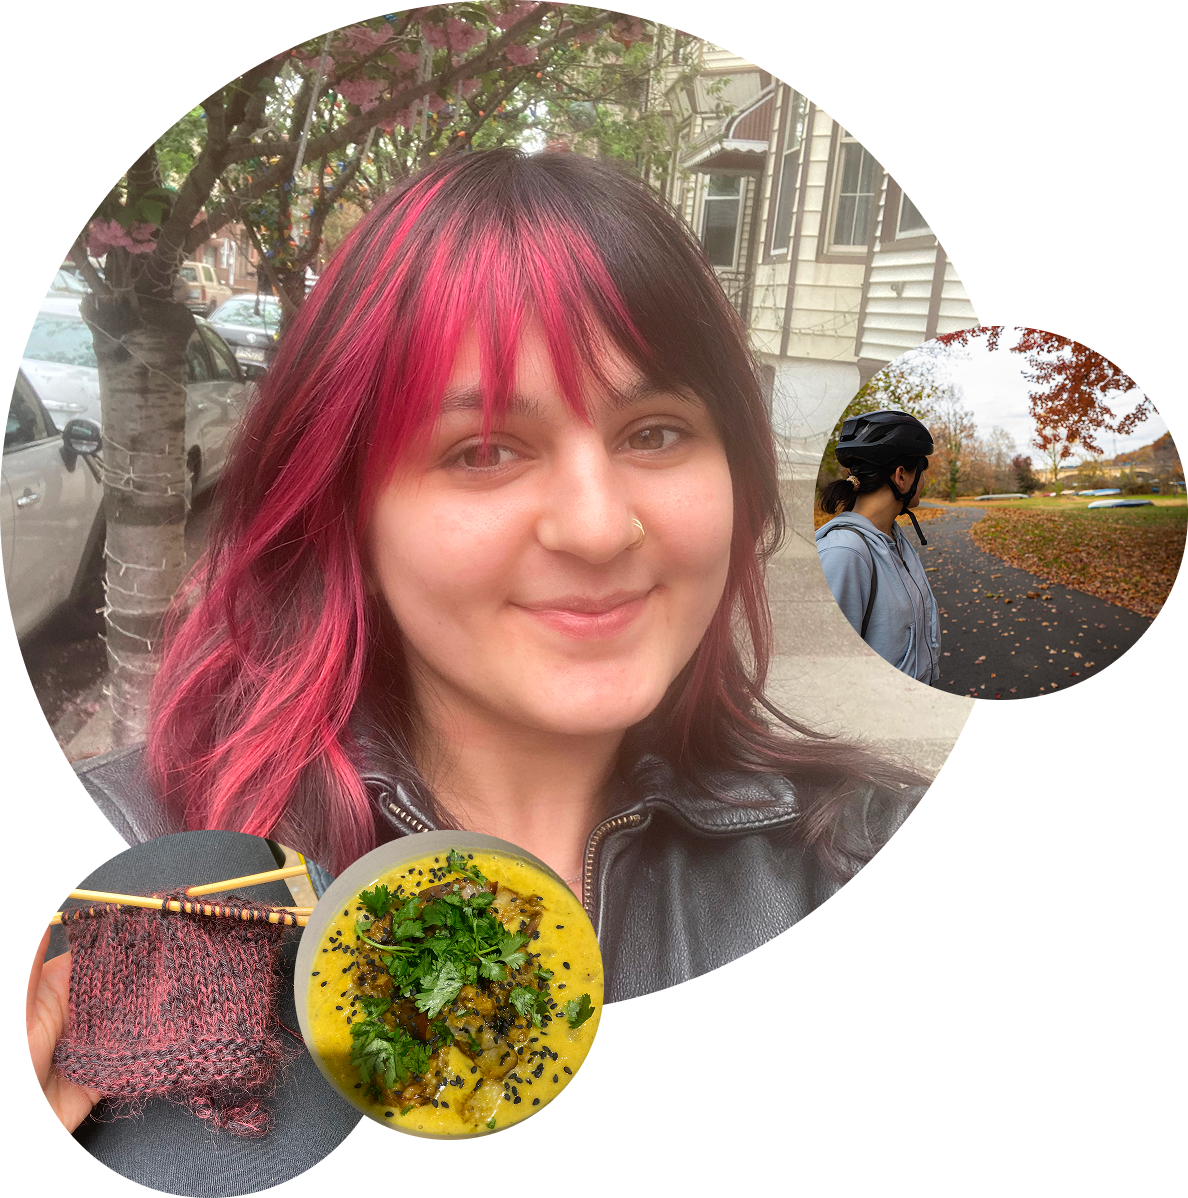
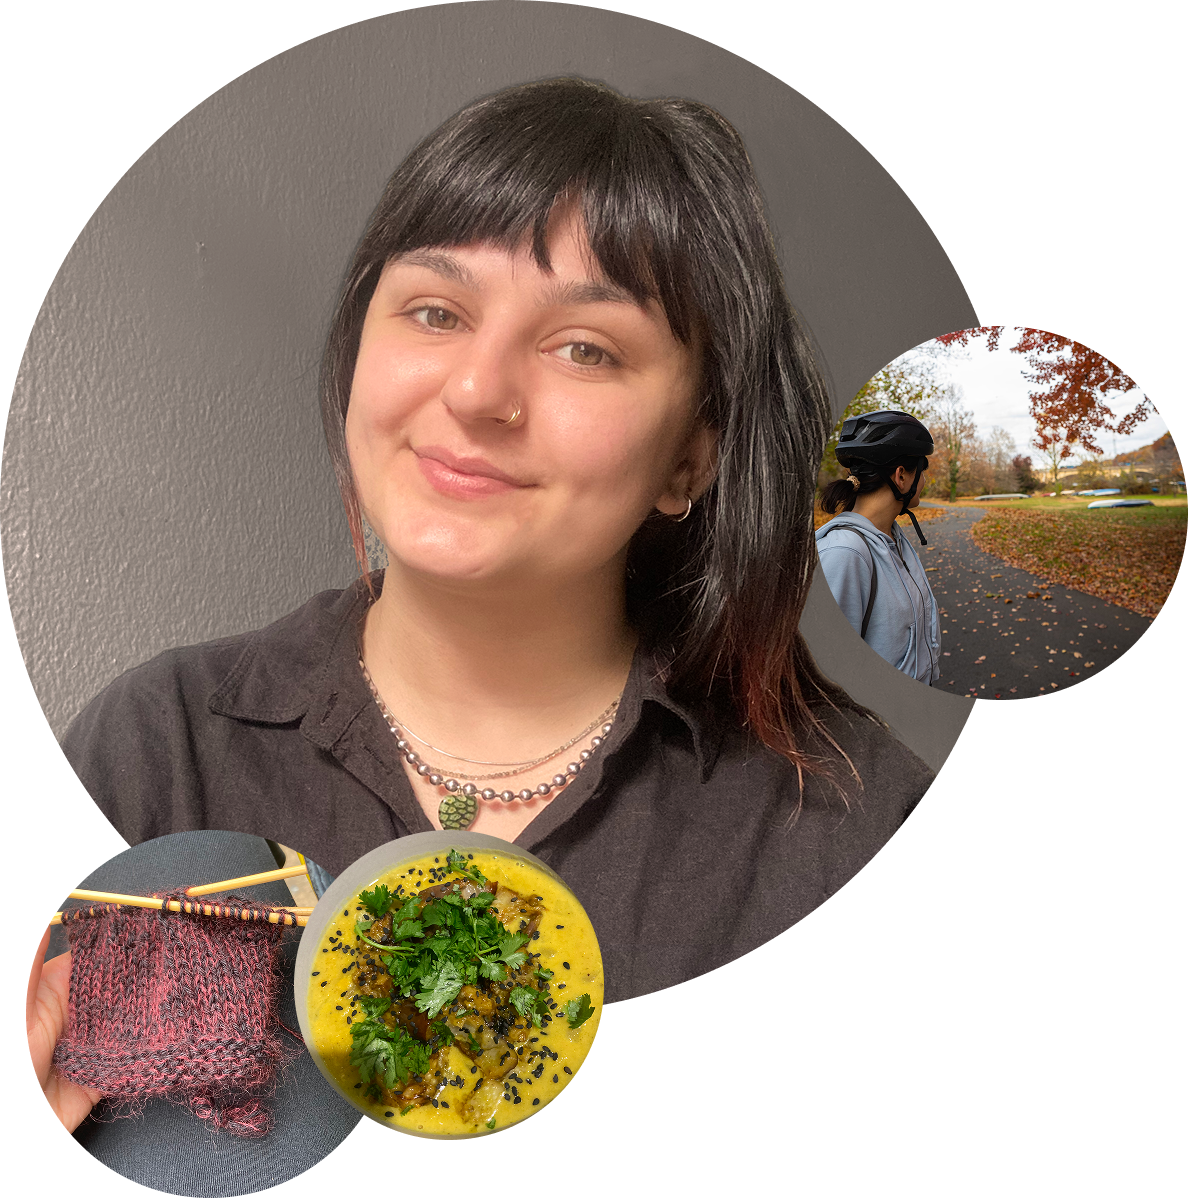
Light Changes
Updated about.png headshot image. Fixed spacing on modal hamburger menu.

diff --git a/css/global.css b/css/global.css
@@ -127,7 +127,7 @@ nav {
     left: 0;
     width: 100vw;
     height: 100vh;
-    background: rgba(0, 0, 0, 0.8);
+    background: rgba(0, 0, 0, 0.9);
     justify-content: center;
     align-items: center;
     flex-direction: column;
@@ -141,7 +141,7 @@ nav {
 
 #modalMenu a {
     display: block;
-    padding: 2px;
+    padding: 20px;
     font-size: 24px;
     color: white;
     text-decoration: none;
